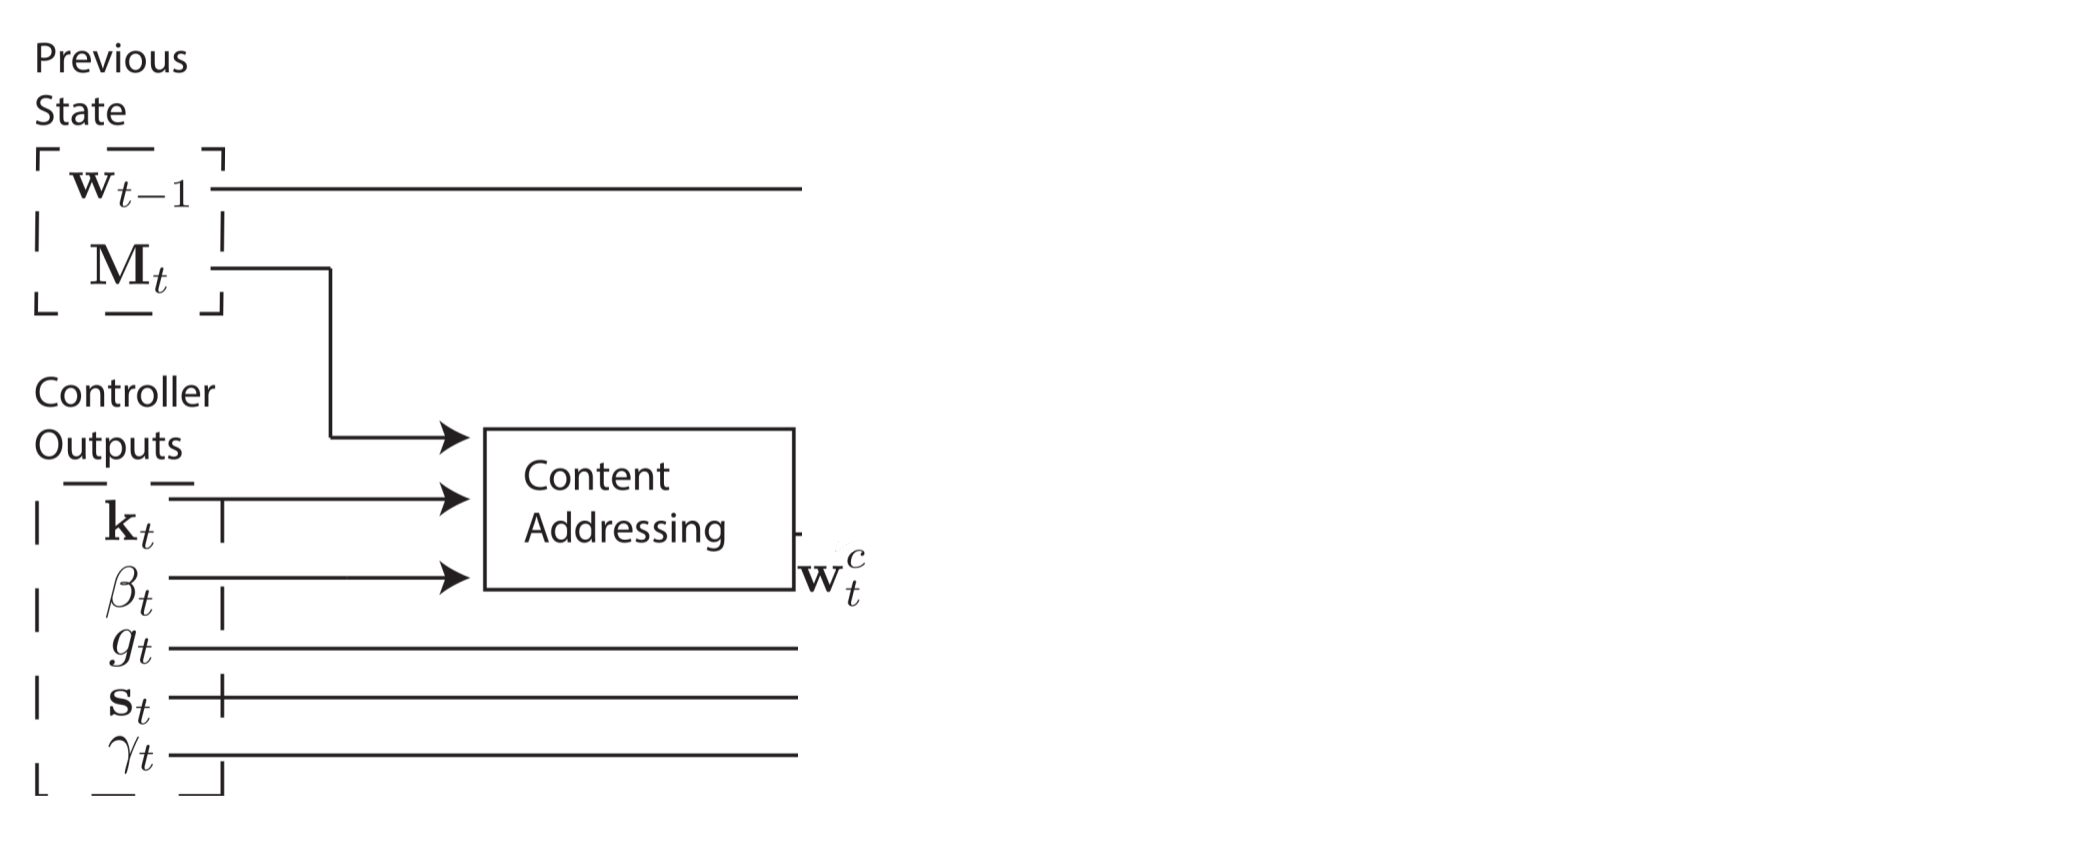
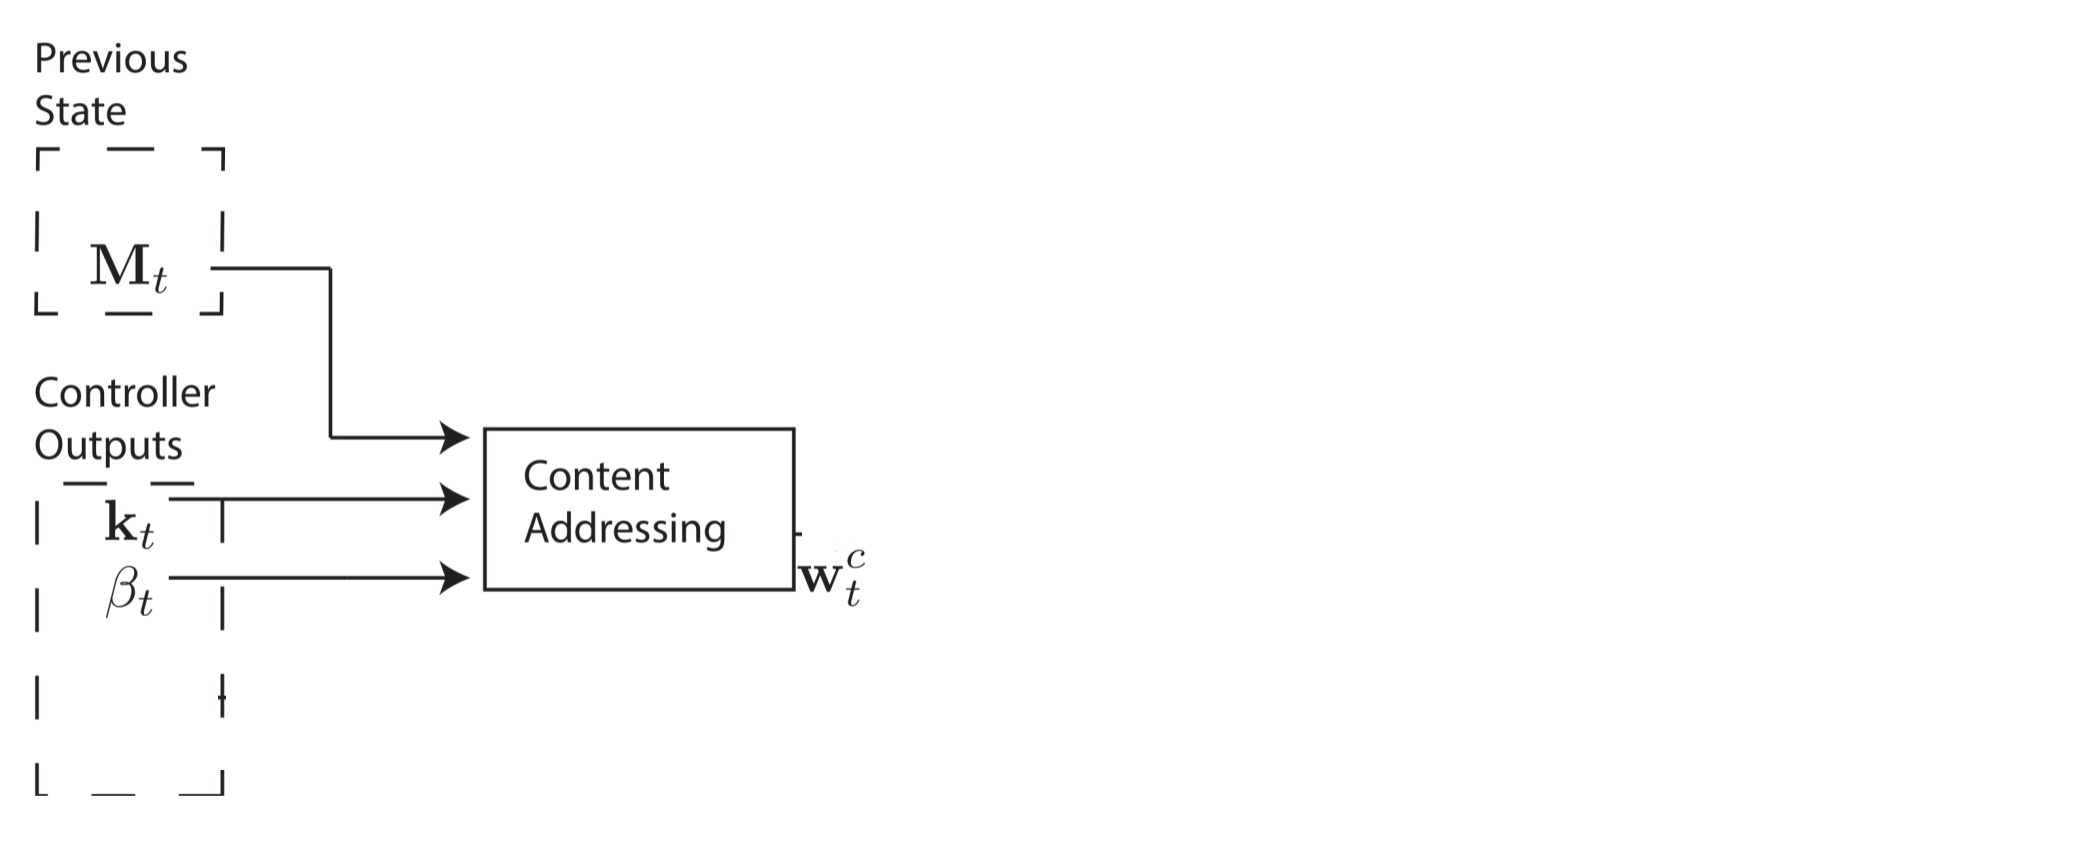
Neural Turing Machine draft

diff --git a/content/research/neural_turing_machine/main.html b/content/research/neural_turing_machine/main.html
@@ -75,7 +75,7 @@
 
         <h2>Background</h2>
         <p>
-          For computer scientists, the need for a memory system is clear. Computers have advanced tremendously over the past half century, but they are still composed of the three components: memory, control flow and arithmetic/logical operations.
+          For computer scientists, the need for a memory system is clear. Computers have advanced tremendously over the past half century, but they are still composed of the three components: memory, control flow and arithmetic/logical operations. However, there's also biological evidence to suggest that having a memory system for quick storage and retrieval of information is helpful. This memory system has been termed <a href="https://en.wikipedia.org/wiki/Working_memory">working memory</a>, and the NTM paper lists several earlier papers that have studied working memory from a computational neuroscience perspective.
         </p><br>
 
         <h2>Intuition</h2>
@@ -96,12 +96,26 @@
         <h2>Mathematics</h2>
         <h3>Reading</h3>
         <p>
-          I'll $\mathcal{M}_t$ is the memory matrix at time $t$ with $R$ rows and $C$ elements per row. If we have some length-R normalized weight vector $w_t$ (normalized meaning that $\sum\limits_{i=1}^R w_t(i) = 1$ and $0 \leq w_t(i) \leq 1$ for all i) at time $t$, a "read head" will return a linear combination of the current rows in the memory scaled by their respective scalar values in the weight vector. Specifically, the read head will return a length-C vector $r_t$:
+          Let's refer to the memory matrix, with $R$ rows and $C$ elements per row, at time $t$ as $\mathcal{M}_t$. In order to read (and write), we'll need an attention mechanism that dictates where the head should read from. The attention mechanism will be a length-$R$ normalized weight vector $w_t$. We'll refer to individual elements in the weight vector as $w_t(i)$. By "normalized," the authors mean that the following two constraints hold:
+
+          <center>
+          $
+          \begin{align} \tag{1}
+          &0 \leq w_t(i) \leq 1 \\
+          &\sum\limits_{i=1}^R w_t(i) = 1
+          \end{align}
+          $
+          </center>
+        </p><br>
+
+        <p>
+
+          The read head will return a linear combination of the memory's rows, indicated by $M_t(i)$, scaled by the weight vector. Specifically, the read head will return a length-$C$ vector $r_t$:
 
           <center>
           $
           \begin{align} \tag{2}
-          r_t \leftarrow \sum\limit_i w_t(i) \mathcal{M}_t(i)
+          r_t \leftarrow \sum\limits_i^R w_t(i) \mathcal{M}_t(i)
           \end{align}
           $
           </center>
@@ -109,12 +123,23 @@
 
         <h3>Writing</h3>
         <p>
-          Writing is a little trickier than reading, since two separate steps are necessary to write: erasing and then adding. In order to erase old data, a "write head" will need a new vector, the length-C erase vector $e_t$, in addition to our length-R normalized weight vector $w_t$. The erase vector has elements between 0 and 1, exclusive, and is used to specify which elements in a row should be erased, left unchanged, or something in between.
-
+          Writing is a little trickier than reading, since writing involves two separate steps: erasing, then adding. In order to erase old data, a write head will need a new vector, the length-C erase vector $e_t$, in addition to our length-R normalized weight vector $w_t$. The erase vector is used in conjunction with the weight vector to specify which elements in a row should be erased, left unchanged, or something in between. If the weight vector tells us to focus on a row, and the erase vector tells us to erase an element, the element in that row will be erased.
           <center>
           $
           \begin{align} \tag{3}
-          \mathcal{M}_t^{erased}(i) \leftarrow \mathcal{M}_{t-1}(i)\[\mathbf{1} - w_t(i) e_t \]
+          \mathcal{M}_t^{erased}(i) \leftarrow \mathcal{M}_{t-1}(i)[\mathbf{1} - w_t(i) e_t ]
+          \end{align}
+          $
+          </center>
+        </p><br>
+
+        <p>
+          After $\mathcal{M}_{t-1}$ has been converted to $\mathcal{M}_t^{erased}$, the write head uses a length-$C$ add vector $a_t$ to complete the writing step.
+
+          <center>
+          $
+          \begin{align} \tag{4}
+          \mathcal{M}_t(i) \leftarrow \mathcal{M}_t^{erased}(i) + w_t(i) a_t
           \end{align}
           $
           </center>
@@ -122,30 +147,184 @@
 
         <h3>Addressing</h3>
         <p>
-          
+          Creating these weight vectors to determine where to read and write is tricky, so I'd like to step through the four-stage process. Each stage generates an intermediate weight vector that get passed to the next stage. The first stage's goal is to generate a weight vector based on how similar each row in memory is to a value $k_t$ emitted by the controller. I'll refer to this intermediary $w_t^c$ as the content weight vector. Another parameter, $\beta_t$, will be explained in just a second.
         </p>
 
         <img class="photo" src="ntm_addr_1.png" width = "device-width" maximum-scale=2>
 
+        <p>
+
+          This content weight vector allows the controller to select values similar to previously seen values, which is called content-based addressing. For each head, the controller produces a key vector $k_t$ that is compared to each row of $M_t$ using a similarity measure. In this paper, the authors use cosine similarity, defined as:
+
+          <center>
+          $
+          \begin{align} \tag{6}
+          K(u, v) = \frac{u \cdot v}{\|u\| \cdot \|v\|}
+          \end{align}
+          $
+          </center>
+        </p><br>
+
+        <p>
+          A positive scalar parameter $\beta_t > 0$, called the key strength, is used to determine how concentrated the content weight vector should be. For small values of beta, the weight vector will be diffuse, but for larger values of beta, the weight vector will be concentrated on the most similar row in memory. To visualize this, if a a key and memory matrix produces a similarity vector <code>[0.1, 0.5, 0.25, 0.1, 0.05]</code>, here's how the content weight vector varies as a function of beta.
+        </p>
+
+        <img class="photo" src="ntm_effect_of_beta.png" width = "device-width" maximum-scale=2>
+
+        <p>
+          The content weight vector thus is calculated as follows:
+
+          <center>
+          $
+          \begin{align} \tag{5}
+          w_t^c(i) = \frac{exp\Big(\beta_t K (k_t, M_t(i))\Big)}{\sum_j exp\Big(\beta_t K(k_t, M_t(j))\Big)}
+          \end{align}
+          $
+          </center>
+        </p><br>
+
+        <p>
+          However, in some cases, we may want to read from specific memory locations instead of reading specific memory values. The example the authors give is the function $f(x, y) = x * y$. In this case, we don't care what the values of x and y are, just that x and y are consistently read from the same memory locations. This is called location-based addressing, and to implement it, we'll need three more stages. In the second stage, a scalar parameter $g_t \in (0, 1)$, called the interpolation gate, blends the content weight vector $w_t^c$ with the previous time step's weight vector $w_{t-1}$ to produce the gated weighting $w_t^g$. This allows the system learn when to use (or ignore) content-based addressing.
+
+          <center>
+          $
+          \begin{align} \tag{7}
+          w_t^g \leftarrow g_t w_t^c + (1- g_t) w_{t-1}
+          \end{align}
+          $
+          </center>
+        </p>
+
         <img class="photo" src="ntm_addr_2.png" width = "device-width" maximum-scale=2>
+
+        <p>
+          After interpolation has finished, each head emits a vector 
+          <center>
+          $
+          \begin{align} \tag{8}
+          \tilde{w}_t(i) \leftarrow \sum\limits_{j=0}^{R-1} w_t^g(j) s_t(i-j)
+          \end{align}
+          $
+          </center>
+        </p>
 
         <img class="photo" src="ntm_addr_3.png" width = "device-width" maximum-scale=2>
 
+        <p>
+          The fourth and final stage, sharpening, is used to prevent the shifted weight $\tilde{w}_t$ from blurring by using a scalar $\gamma \geq 1$.
+
+          <center>
+          $
+          \begin{align} \tag{9}
+          w_t(i) \leftarrow \frac{\tilde{w}_t(i)^{\gamma_t}}{\sum\limits_j \tilde{w}_t(j)^{\gamma_t}}
+          \end{align}
+          $
+          </center>
+        </p>
+
         <img class="photo" src="ntm_addr_4.png" width = "device-width" maximum-scale=2>
         
+        <p>
+          And that's it! A weight vector can be computed that determines where to read from and write to, and better yet, the system is entirely differentiable and thus end-to-end trainable.
+        </p>
         
         <h2>Experiments and Results</h2>
-
+        <h3>Copying</h3>
+        <p>
+          RNNs have historically struggled to remember information over long periods. The first experiment was designed to test whether having an external memory system allows for better performance. In the experiment, three systems were given a sequence of random eight bit vectors followed by a delimiter flag, and then ask to repeat the input sequence. An <font color="blue">LSTM</font> was compared against two NTMs, one that used a <font color="green">LSTM controller</font> and another that used a <font color="red">feedforward controller</font>. In the figure below, "cost per sequence" refers to the number of bits that a system incorrectly recalls over an entire sequence (sequence lengths. As you can see, both NTM architectures significantly outperform the LSTM.
+        </p>
         
         <img class="photo" src="ntm_copy_learning_curve.png" width = "device-width" maximum-scale=2>
 
-        <h2>Discussion</h2>
+        <p>
+          Obviously, both the LSTM and the NTMs had learned some rudimentary copy algorithm. The researchers visualized how the NTM read from and wrote to (shown below). White is weight $1$, and black is weight $0$. The picture clearly displays that weightings over memory location were very focused.
+        </p>
+
+        <img class="photo" src="ntm_copy_memory_trace.png" width = "device-width" maximum-scale=2>
+        
+
+        <p>
+          Next, the researchers want to know how well the LSTM's and NTMs' algorithms could scale to sequences longer than anything the systems had been trained on. Since the training sequences had between 1 and 20 random vectors, the LSTM and NTMs were compared using sequences of lengths 10, 20, 30, 50 and 120. The next two images need a little explanation. There are eight blocks. The four top blocks represent the target sequences of lengths 10, 20, 30, and 50. Within the each block, a column of eight red and blue squares is used to visually indicate 1s and 0s. The brightly colored squares are used to indicate bits that had values other than 0.0 or 1.0.
+        </p>
+
+        <center><b>LSTM Copy Performance on Sequence Lengths 10, 20, 30, 50</b></center>
+        <img class="photo" src="ntm_copy_generalization_lstm_shorter.png" width = "device-width" maximum-scale=2>
+
+        <center><b>NTM Copy Performance on Sequence Lengths 10, 20, 30, 50</b></center>
+        <img class="photo" src="ntm_copy_generalization_ntm_shorter.png" width = "device-width" maximum-scale=2>
+
+        <p>
+          As you can tell, the NTM produces far fewer errors for longer sequences. I couldn't find in the paper which NTM (the RNN controller or the feedforward controller) was used to produce the above image. The difference between the NTM and LSTM becomes more pronounced for longer sequences, as shown below for the 120 vector-long sequence.
+        </p>
+
+        <center><b>LSTM Copy Performance on Sequence Length 120</b></center>
+        <img class="photo" src="ntm_copy_generalization_lstm_longer.png" width = "device-width" maximum-scale=2>
+
+        <center><b>NTM Copy Performance on Sequence Length 120</b></center>
+        <img class="photo" src="ntm_copy_generalization_ntm_longer.png" width = "device-width" maximum-scale=2>
+
+
+
+        <h3>Repeat Copying</h3>
+        <p>
+          The second experiment was to determine whether a NTM could learn a nested function (in this case, a nested for loop). In addition to being passed a sequence, the NTM was also passed a scalar value indicating how many times the NTM should output the copied input sequence. As you would expect, both NTMs outperformed the LSTM.
+        </p>
+
+        <img class="photo" src="ntm_repeat_copy_learning_curve.png" width = "device-width" maximum-scale=2>
+
+        <p>
+          And, like before, the LSTM struggles to generalize its repeat copying algorithm, while the NTM does not.
+        </p>
+
+        <img class="photo" src="ntm_repeat_copy_generalization.png" width = "device-width" maximum-scale=2>
+
+        <h3>Associative Recall</h3>
+        <p>
+          The third experiment was to determine whether NTMs can learn indirection i.e. one data item pointing to another. The authors fed in a list of items, and then queried one of the items in the list, with the expectation that the next item in the list be returned. As the authors point out, the fact that the feedforward-controller NTM outperforms the LSTM-controller NTM suggests that the NTM's memory is a superior data storage system than the LSTM's internal state.
+        </p>
+
+        <img class="photo" src="ntm_associative_recall_curve.png" width = "device-width" maximum-scale=2>
+
+        <p>
+          And again, the NTMs outperform the LSTM when generalizing to a larger number of items in the list.
+        </p>
+
+        <img class="photo" src="ntm_associative_recall_generalization.png" width="device-width" maximum-scale=2>
+
+        <h3>Dynamic N-Grams</h3>
+        <p>
+          The fourth task was designed to determine whether NTMs could learn <a href="https://en.wikipedia.org/wiki/Posterior_predictive_distribution">posterior predictive distributions</a>. The researchers designed N-grams (sequences of N items), which given previous items in the sequence, determine some probability distribution over the next item in the sequence. In this case, the researchers used binary 6-Grams. The optimal solution to an agent's ability to predict the next bit has a closed-form solution, and the NTMs both outperformed the LSTM and approached the optimal estimator.
+        </p>
+
+
+        <img class="photo" src="ntm_dynamic_n_gram.png" width="device-width" maximum-scale=2>
+        
+        <h3>Priority Sort</h3>
+        <p>
+          The fifth and final experiment tested whether the NTM can learn to sort data. 20 binary vectors were each given a scalar "priority rating" drawn uniformly from the range [-1, 1], and each system's objective was to return the 16 highest priority vectors in the input. By examining the NTMs' memories writes and reads, the researchers learned that the NTM used the priorities to determine approximately where each vector should be stored in order. Then, to produce the 16 highest priority vectors, the memory locations were read sequentially. This is visible in sequence of memory writes and reads.
+        </p>
+
+        <img class="photo" src="ntm_priority_sort_memory_access.png" width="device-width" maximum-scale=2>
+
+        <p>
+          For the last time, the NTMs outperform the LSTM.
+        </p>
+
+        <img class="photo" src="ntm_priority_sort_curve.png" width="device-width" maximum-scale=2>
 
         <h2>Summary</h2>
+        <p>
+          <ul>
+            <li>Neuroscience models of working memory and digital computer architecture suggest function might depend having an external memory</li>
+            <li>Neural networks augmented with external memory offers a possible solution to a key criticism of connectionism, that neural networks are incapable of variable-binding</li>
+            <li>Blurry reads and writes are differentiable, which are critical in allowing the controller to learn how to use its memory</li>
+            <li>Evidence from five tasks demonstrates that NTMs can outperform LSTMs and learn more generalizable algorithms than LSTMs</li>
+          </ul>
+        </p>
 
         <h2>Notes</h2>
         <p>
-          I appreciate any and all feedback. If I've made an error or if you have a suggestion, you can <a href="mailto:ryschaeffer@ucdavis.edu">email me</a> or comment on the <a href="">Reddit</a> or <a href="">HackerNews</a> threads.
+          I appreciate any and all feedback. If I've made an error or if you have a suggestion, you can <a href="mailto:ryschaeffer@ucdavis.edu">email me</a> or comment on the <a href="">Reddit</a> or <a href="">HackerNews</a> threads. I intend to create a mailing list (shoutout to Ben) and integrate RSS (shoutout to Uri) in the near future.
         </p>
 
       </section>

diff --git a/content/research/one_shot_learning_with_memory_augmented_nn/main.html b/content/research/one_shot_learning_with_memory_augmented_nn/main.html
@@ -41,7 +41,7 @@
     <!-- HEADER -->
     <div id="header_wrap" class="outer">
       <header class="inner">
-        <h1 id="project_title">One-shot Learning with Memory-Augmented Neural Networks</h1>
+        <h1 id="project_title">(WORK IN PROGRESS) One-shot Learning with Memory-Augmented Neural Networks</h1>
         <h3 id="project_tagline"><a href="https://arxiv.org/abs/1605.06065">Santoro et al. 2016.</a></h3>
           <section id="quick_links">
             <a class="back" href="../../research.html"></a>

diff --git a/content/research/neural_turing_machine/effect_of_beta.py b/content/research/neural_turing_machine/effect_of_beta.py
@@ -1,0 +1,22 @@
+import numpy
+import matplotlib.pyplot as plt
+
+
+def content_addressing(beta, weight_vector):
+    return numpy.exp(beta*weight_vector) / numpy.sum(numpy.exp(beta*weight_vector))
+
+
+x_values = numpy.logspace(-1, 2, num=50)
+weight_vector = numpy.array([0.1, 0.5, 0.25, 0.1, 0.05])
+
+y_vectors = numpy.transpose(numpy.array([content_addressing(x_value, weight_vector) for x_value in x_values]))
+
+
+fig, ax = plt.subplots()
+ax.set_xscale('log')
+ax.stackplot(x_values, y_vectors)
+plt.title('Content Weight Vector as function of Beta', )
+plt.suptitle
+plt.xlabel('Beta')
+plt.ylabel('Content Weight Vector')
+plt.show()

diff --git a/content/research/neural_turing_machine/effect_of_gamma.py b/content/research/neural_turing_machine/effect_of_gamma.py
@@ -1,0 +1,22 @@
+import numpy
+import matplotlib.pyplot as plt
+
+
+def content_addressing(gamma, weight_vector):
+    return numpy.power(weight_vector, gamma) / numpy.sum(numpy.power(weight_vector, gamma))
+
+
+x_values = numpy.logspace(0, 1, num=50)
+weight_vector = numpy.array([0.1, 0.5, 0.25, 0.1, 0.05])
+
+y_vectors = numpy.transpose(numpy.array([content_addressing(x_value, weight_vector) for x_value in x_values]))
+
+
+fig, ax = plt.subplots()
+ax.set_xscale('log')
+ax.stackplot(x_values, y_vectors)
+plt.title('Weight Vector as function of Gamma', )
+plt.suptitle
+plt.xlabel('Gamma')
+plt.ylabel('Weight Vector')
+plt.show()
